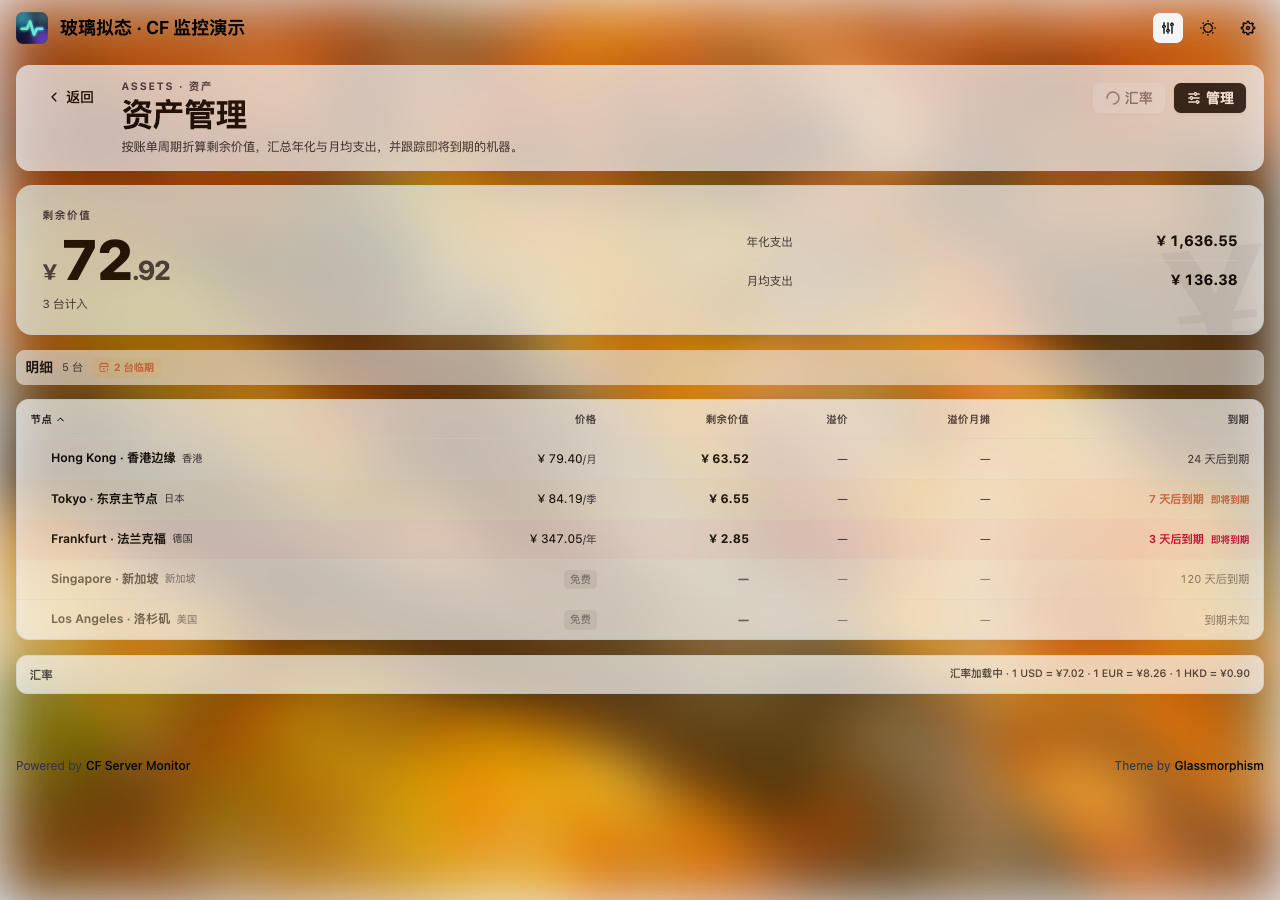
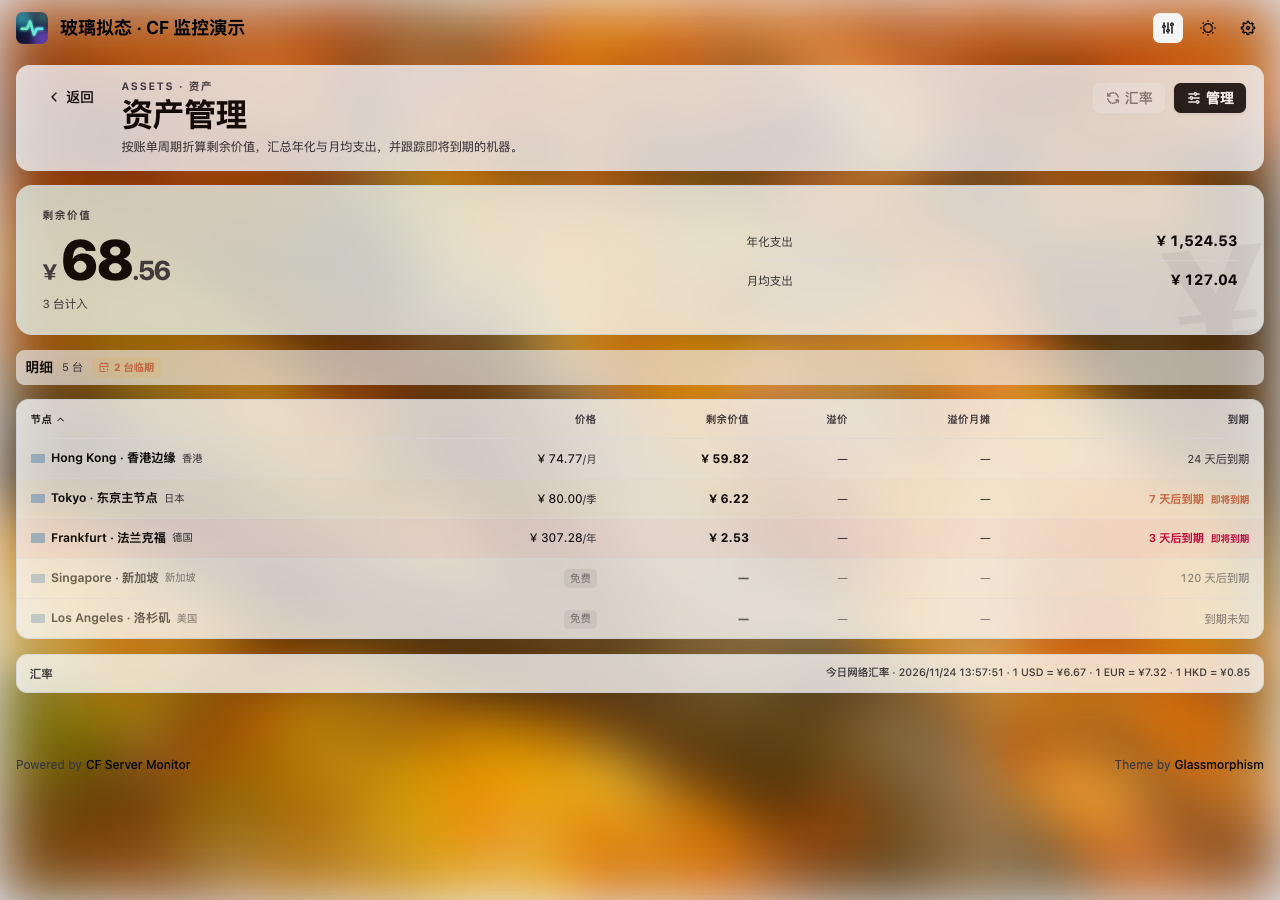
修复资产页国家旗帜路径

diff --git a/src/views/AssetsView.vue b/src/views/AssetsView.vue
@@ -26,6 +26,7 @@ import {
 } from '@/utils/assetRates'
 import { DEFAULT_EXCHANGE_RATES } from '@/utils/financeHelper'
 import { getRegionCode, getRegionDisplayName } from '@/utils/regionHelper'
+import { publicAssetUrl } from '@/cfsm/apiBase'
 import { isHomeLoaded, loadHomeServers } from '@/cfsm/data'
 
 const AssetManageDialog = defineAsyncComponent(() => import('@/components/AssetManageDialog.vue'))
@@ -172,7 +173,14 @@ function premiumTone(amount: number): string {
 }
 
 function flagSrc(region: string): string {
-  return `/images/flags/${getRegionCode(region)}.svg`
+  // 旗帜来自默认皮肤的 /flags/<code>.svg（纯静态托管时回退到 API 源站）
+  return publicAssetUrl(`flags/${getRegionCode(region).toLowerCase()}.svg`)
+}
+
+function onFlagError(event: Event): void {
+  // 无法识别或缺失的地区不显示破图
+  const img = event.target as HTMLImageElement
+  img.style.display = 'none'
 }
 
 function regionName(region: string): string {
@@ -367,7 +375,7 @@ onBeforeUnmount(() => {
             <tr v-for="detail in rows" :key="detail.uuid" :data-counted="detail.counted" :data-tone="expiryTone(detail)">
               <td>
                 <RouterLink :to="nodePath(detail)" class="assets-node-link" :title="detail.name">
-                  <img v-if="detail.region" :src="flagSrc(detail.region)" alt="" width="14" height="10" loading="lazy">
+                  <img v-if="detail.region" :src="flagSrc(detail.region)" alt="" width="14" height="10" loading="lazy" @error="onFlagError">
                   <span>{{ detail.name }}</span>
                   <small v-if="detail.region">{{ regionName(detail.region) }}</small>
                 </RouterLink>
@@ -408,7 +416,7 @@ onBeforeUnmount(() => {
         <article v-for="detail in rows" :key="detail.uuid" class="assets-card bg-card" :data-counted="detail.counted" :data-tone="expiryTone(detail)">
           <div class="assets-card-head">
             <RouterLink :to="nodePath(detail)" class="assets-node-link">
-              <img v-if="detail.region" :src="flagSrc(detail.region)" alt="" width="14" height="10" loading="lazy">
+              <img v-if="detail.region" :src="flagSrc(detail.region)" alt="" width="14" height="10" loading="lazy" @error="onFlagError">
               <span>{{ detail.name }}</span>
             </RouterLink>
             <strong>{{ detail.counted ? displayMoney(detail.remainingCny) : '—' }}</strong>
